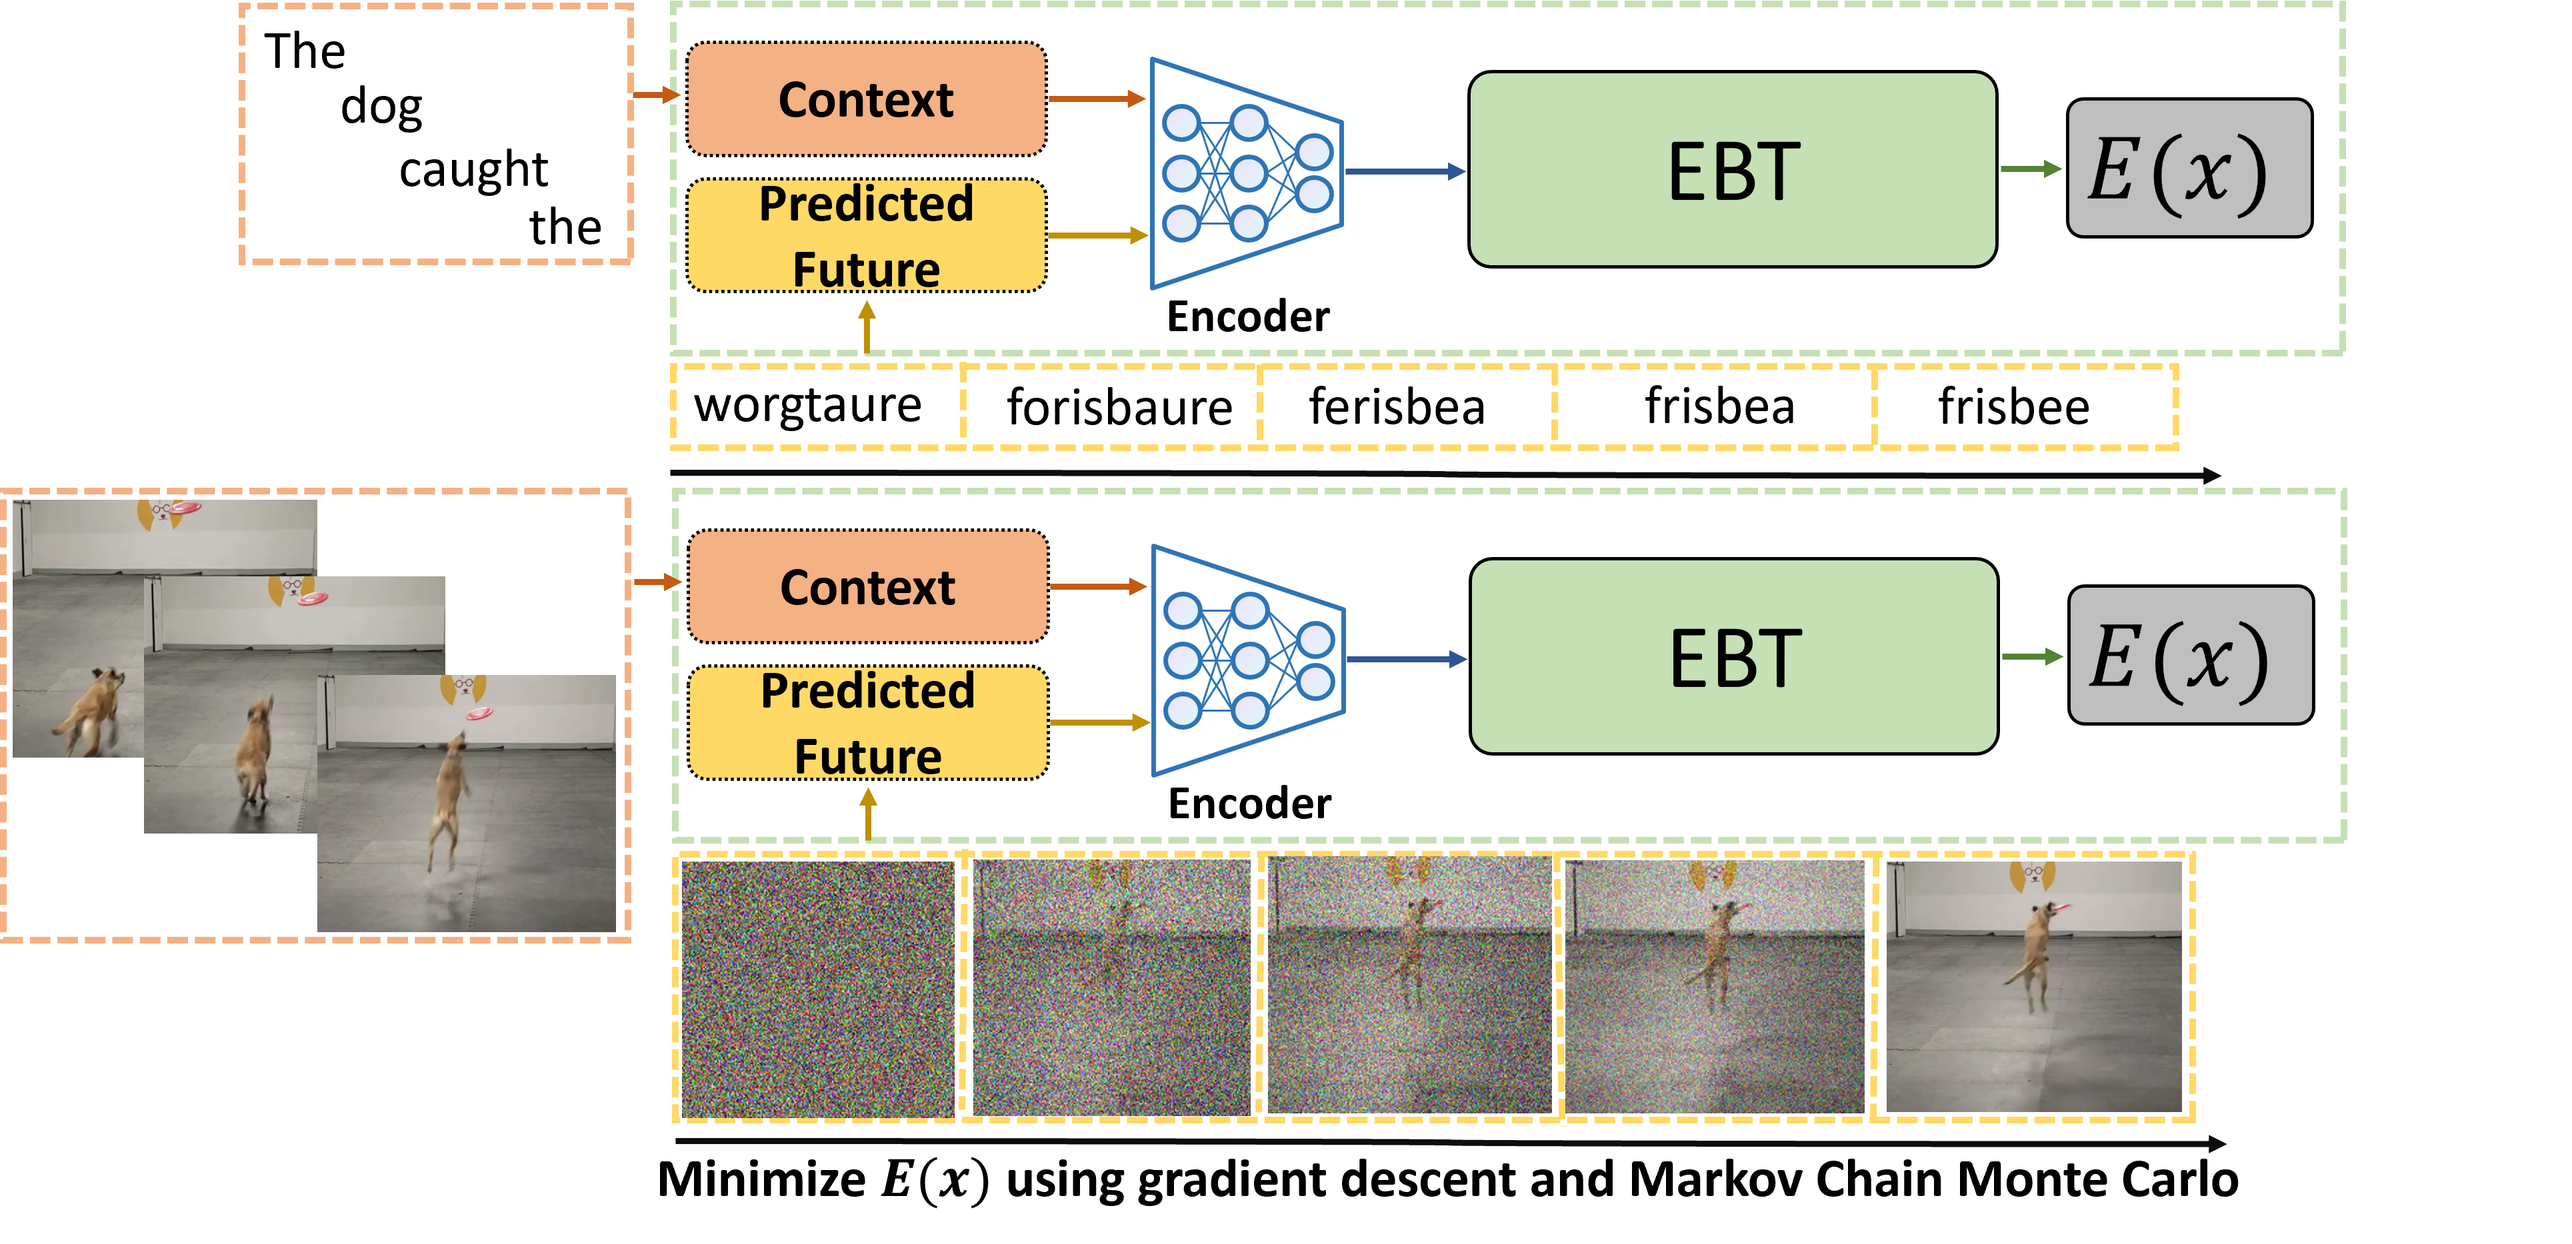
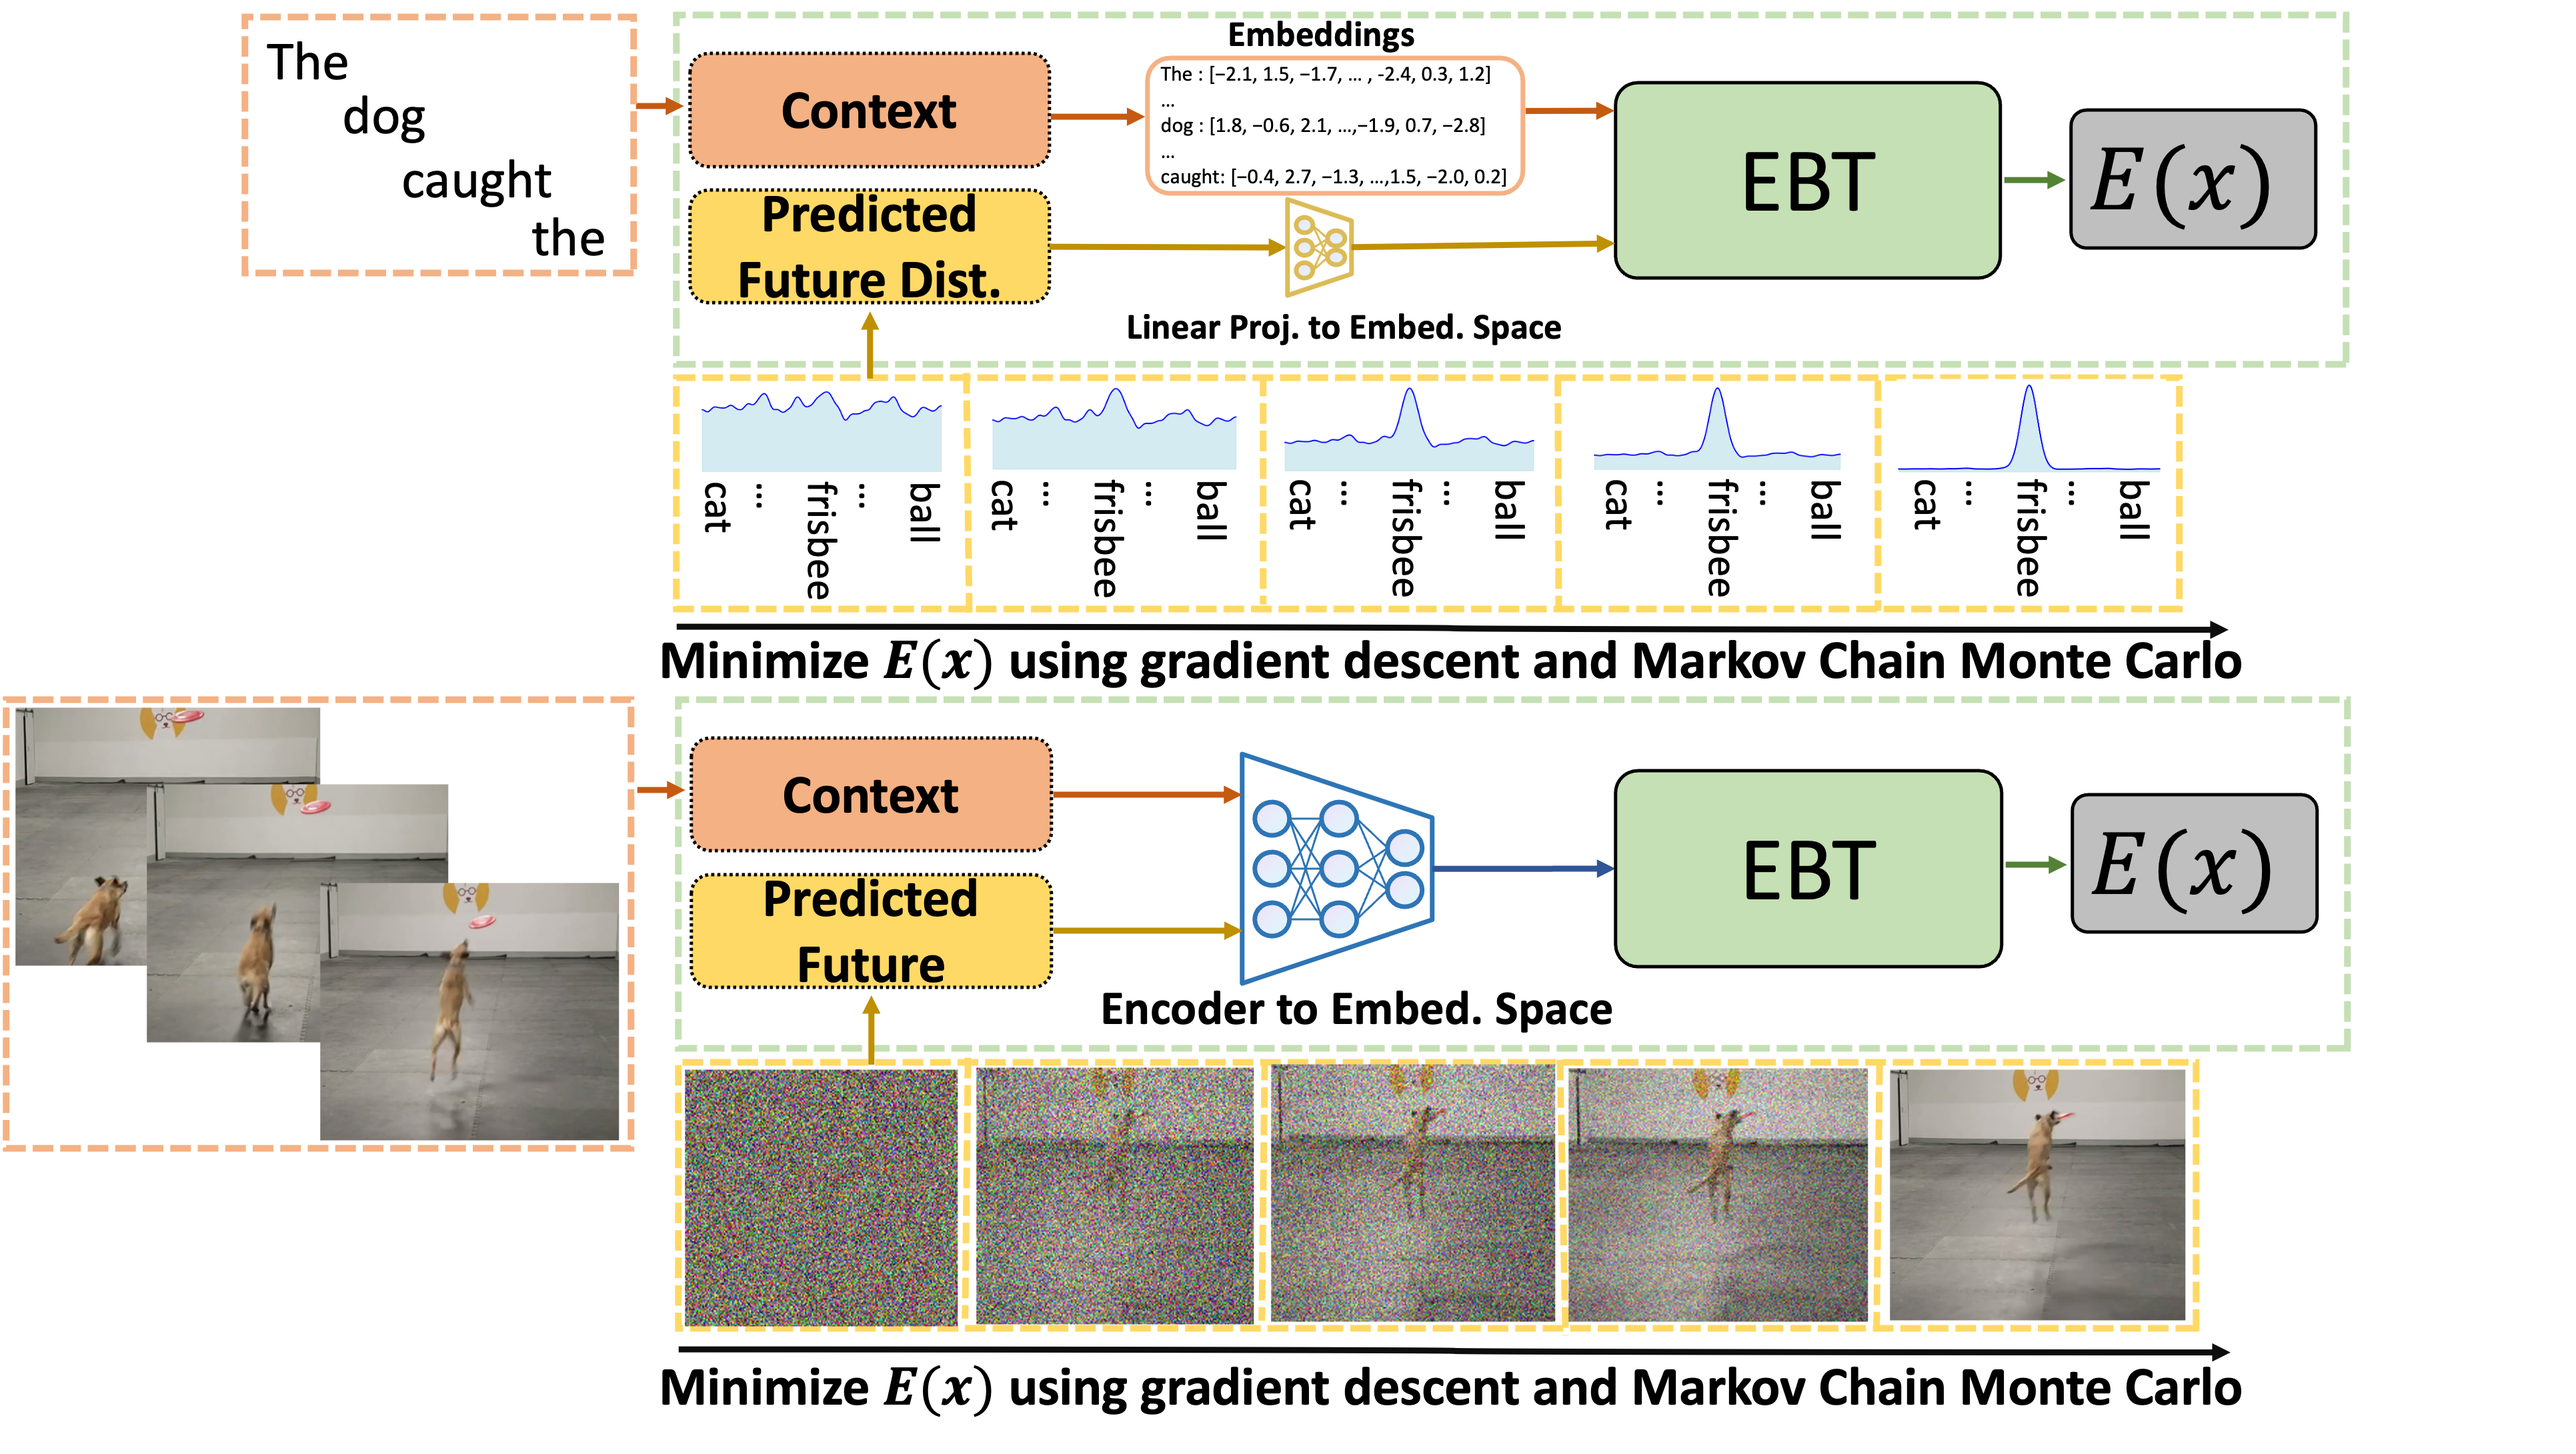
updated ebwm blog

diff --git a/_posts/2024-06-16-EBWM.md b/_posts/2024-06-16-EBWM.md
@@ -2,17 +2,30 @@
 layout: post
 title: "Cognitively Inspired Energy-Based World Models"
 ---
+<script type="text/x-mathjax-config">
+  MathJax.Hub.Config({
+    tex2jax: {
+      inlineMath: [['$', '$'], ['\\(', '\\)']],
+      displayMath: [['$$', '$$'], ['\\[', '\\]']],
+      processEscapes: true
+    }
+  });
+</script>
+<script type="text/javascript" async 
+  src="https://cdnjs.cloudflare.com/ajax/libs/mathjax/2.7.7/MathJax.js?config=TeX-MML-AM_CHTML">
+</script>
 
-[Work In Progress] What are Energy-Based World Models and why should I care about them? <span>|</span> Estimated Read Time: 9 mins
+
+What are Energy-Based World Models and why should I care about them? <span>|</span> Estimated Read Time: 9 mins
 
 # Cognitively Inspired Energy-Based World Models
-06/16/2024
+06/16/2024, Updated 09/15/2025
 
 [Paper: https://arxiv.org/abs/2406.08862](https://arxiv.org/abs/2406.08862)
 
-**TLDR:** 
+## TLDR:
 
-We developed a new approach for Autoregressive (AR)/world modeling called Energy-Based World Models (EBWM).
+We developed a new approach for Autoregressive (AR)/world modeling[^1] called Energy-Based World Models (EBWM).
 
 ![Comparison of EBWM to Existing Autoregressive Approaches](/assets/ebwm_comparison.png)
 
@@ -22,7 +35,10 @@ This is inspired by several facets of human cognition, such as System 2 thinking
 
 ***
 
+
 *This blog is written for readers not familiar with all topics discussed, and therefore makes simplifications when describing various topics. Feel free to skip certain sections that are review for you.*
+
+### Problems with Current Models
 
 Large Language Models (LLMs) have achieved amazing feats, but still struggle to reason and plan.
 So how can we train LLMs, and more broadly, world models to reason and plan like humans? Our new work, [Cognitively Inspired Energy-Based World Models](https://arxiv.org/abs/2406.08862), aims to address this.
@@ -33,37 +49,45 @@ What is 2 + 2?
 
 What is 67 * 54?
 
-These questions vary drastically in difficulty---the first you could probably solve without even deliberately thinking but the second would take deliberate mathematical reasoning. Yet, most existing world models are trained to make every prediction with a fixed amount of computational resources (If you're thinking CoT is a counterexample to this keep reading!) As humans, we naturally adjust the computational resources we use towards the difficulty of the problem, which is more broadly referred to as System 2 thinking in psychology. 
+These questions vary drastically in difficulty---the first you could probably solve without even deliberately thinking but the second would take deliberate mathematical reasoning. Yet, most existing world models are trained to make every prediction with a fixed amount of computational resources (If you're thinking CoT is a counterexample to this check the paper!) As humans, we naturally adjust the computational resources we use towards the difficulty of the problem, which is more broadly referred to as System 2 thinking in psychology. 
 
 We trained world models to be able to approximate this System 2 like thinking, through developing 'Energy-Based World Models' (EBWM). Not only are these models able to dynamically allocate compute based on the difficulty of a given problem during inference, but they can also achieve several other facets of cognition not possible with existing traditional autoregressive approaches (e.g. Autoregressive Transformers, RNNs, Diffusion Transformers, etc).
 
-This matters, because it provides a promising path towards training world models that can truly think, reason, and plan, at the same level as humans---a problem I'm confident is one of the largest blockers towards achieving human-level intelligence/AGI.
+This matters, because it provides promising steps towards training world models that can truly think, reason, and plan, at the same level as humans---a problem I'm confident is one of the largest blockers towards achieving human-level intelligence/AGI.
 
 Before we continue, let's review what some of the topics we'll be discussing are.
 
-**World Models:**
-Intuitively, world models are predictive models of the world. They have learned various laws of physics, such as gravity, and know how people move, how the sun sets, and various other aspects of the world. The world models that our paper focused on are a specific instance of world models where there are several sensory inputs (i.e. multiple video frames) and the model is trained to predict the next sensory input (i.e. the next frame) \[[1](#1)\]. Mathematically, this is equivalent to the following:
+## Review
+
+### World Models
+
+Intuitively, world models are predictive models of the world. They have learned various laws of physics, such as gravity, and know how people move, how the sun sets, and various other aspects of the world. The world models that our paper focused on are a specific instance of world models where there are several sensory inputs (i.e. multiple video frames) and the model is trained to predict the next sensory input (i.e. the next frame) [^2]. Mathematically, this is equivalent to the following:
 
 $$
 x(t+1) = F(x(1), x(2), \ldots, x(t))
 $$
 
-Where x(1) ... x(t+1) are sensory inputs (i.e. different video frames) and F is the function being learned. 
+Where $x(1), ..., x(t+1)$ are sensory inputs (i.e. different video frames) and F is the function (or more specifically energy function) being learned. 
 
-**Energy-Based Models:**
+### Energy-Based Models
+
 Energy-Based Models (EBMs) assign a scalar value, called the energy, to each configuration of inputs to a model. The key idea is that configurations with lower energy are more probable and compatible with each other, while those with higher energy are less likely. The goal of an EBM is to learn an energy function that gives lower energy to "correct" or "desirable" configurations, like real data points, and higher energy to "incorrect" or "undesirable" ones, like noise or outliers.
 
 In the context of world models trained as EBMs, you can think of this energy as how probable/compatible the *predicted next state* is with the *context/past*. 
 
 For example, if the given context was a video of a red ball flying up through the air, a *high* energy continuation may be a video of a dog chewing on its toy, while a *low* energy continuation might be a red ball flying down through the air. This red ball flying down through the air is more compatible with the context, which implies lower energy.
 
-**Markov Chain Monte Carlo:** EBMs trained with neural networks (NNs) have some cool characteristics. Since NNs are fully differentiable, these models can use a method called Markov Chain Monte Carlo (MCMC). Simply put, MCMC under the context of EBMs is a technique that helps models start from random noise and iteratively improve upon their predictions. It does this by minimizing the learned energy function, or by backpropagating the gradient from the energy scalar to the input being improved upon. You can think about this intuitively as asking the model, "How can I adjust this input to improve its likeliness", and the model telling you how to adjust each and every aspect of the input (i.e. each pixel in the video frame) to minimize the energy and therefore increase that input's compatibility with the other inputs.
+### Markov Chain Monte Carlo
+
+EBMs trained with neural networks (NNs) have some cool characteristics. Since NNs are fully differentiable, these models can use a method called Markov Chain Monte Carlo (MCMC). Simply put, MCMC under the context of EBMs is a technique that helps models start from random noise and iteratively improve upon their predictions. It does this by minimizing the learned energy function, or by backpropagating the gradient from the energy scalar to the input being improved upon. You can think about this intuitively as asking the model, "How can I adjust this input to improve its likeliness", and the model telling you how to adjust each and every aspect of the input (i.e. each pixel in the video frame) to minimize the energy and therefore increase that input's compatibility with the other inputs.
+
+### EBWM 
 
 Now, let's take a look at EBWM in NLP and CV (note that we visualize words and images for NLP and CV respectively, but note that this is all done at the token/embedding level):
 
 ![EBWM in NLP and CV](/assets/ebwm.png)
 
-The orange boxes here represent the context. The yellow boxes represent the predicted future state (which starts as random noise). First, EBWM predicts the energy of the initially predicted future state (which is likely to be high since it is random noise). Then, using MCMC, this prediction is iteratively improved upon. 
+The orange boxes here represent the context. The yellow boxes represent the predicted future state (which starts as random noise). First, EBWM predicts the energy of the initially predicted future state (which is likely to be high since it is random noise). Then, using MCMC, this prediction is iteratively improved upon. This ability to dynamically improve upon predictions, while giving an energy score for each of them, allows the models to achieve several cognitive feats described below.
 
 ### So what other feats can EBWM achieve that existing autoregressive approaches can't?
 
@@ -83,7 +107,10 @@ Second, was the design of an *Energy-Based Transformer.* EBM's have failed to st
 
 Third, we investigated EBWM scaling in CV and NLP.
 
-The fourth, *not discussed much in the main paper* contribution, was the usage of a regularized (by reconstruction) objective rather than a contrastive objective for pre-training. There are existing papers that approached autoregressive modeling with an EBM, but they all used contrastive objectives. Contrastive objectives suffer from the curse of dimensionality, which makes regularized objectives more attractive for scaling.
+The fourth, *not discussed much in the main paper* contribution, was the usage of a regularized (by reconstruction) objective rather than a contrastive objective for pre-training. There are existing papers that approached autoregressive modeling with an EBM, but they all used contrastive objectives. Contrastive objectives suffer from the curse of dimensionality, which makes regularized objectives more attractive for scaling. This is the key reason behind why EBWM actually scales, unlike other EBM approaches.
+
+### Takeaways from the Paper
+The main takeaway I aim to convey is that EBWM offers an exciting opportunity for training models capable of System 2 thinking. The experiments show promising scaling, so I think further scaling (people with more GPUs :) and more investigations of the capablities after further scaling could be very exciting!
 
 
 Thanks to all coauthors for all the help with this work, and I'm super excited to see what this work leads to in the future!
@@ -94,4 +121,6 @@ See references in the paper.
 
 ## Footnotes
 
-[^1]: A more general formulation of world models is in the paper, where more than just sensory inputs are conditioned on when predicting the next state/input.
+[^1]: I will use the term world modeling in this blog to broadly refer to all autoregressive models/LLMs. See the paper for more details on why I do this.
+
+[^2]: A more general formulation of world models is in the paper, where more than just sensory inputs are conditioned on when predicting the next state/input.
